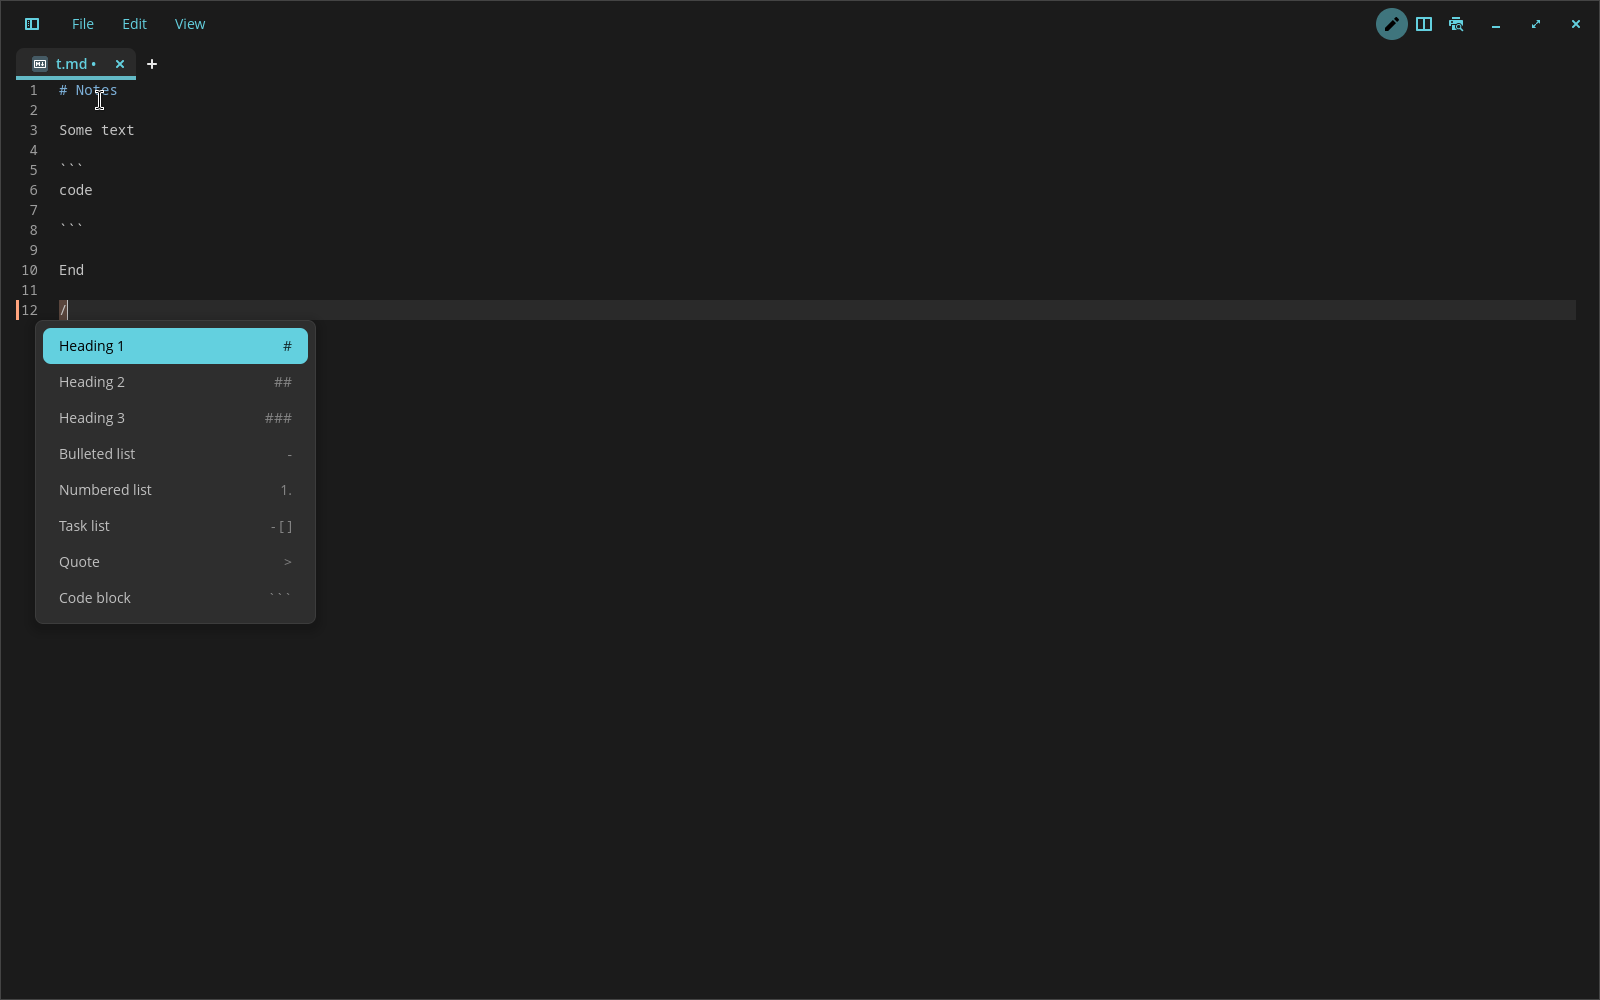
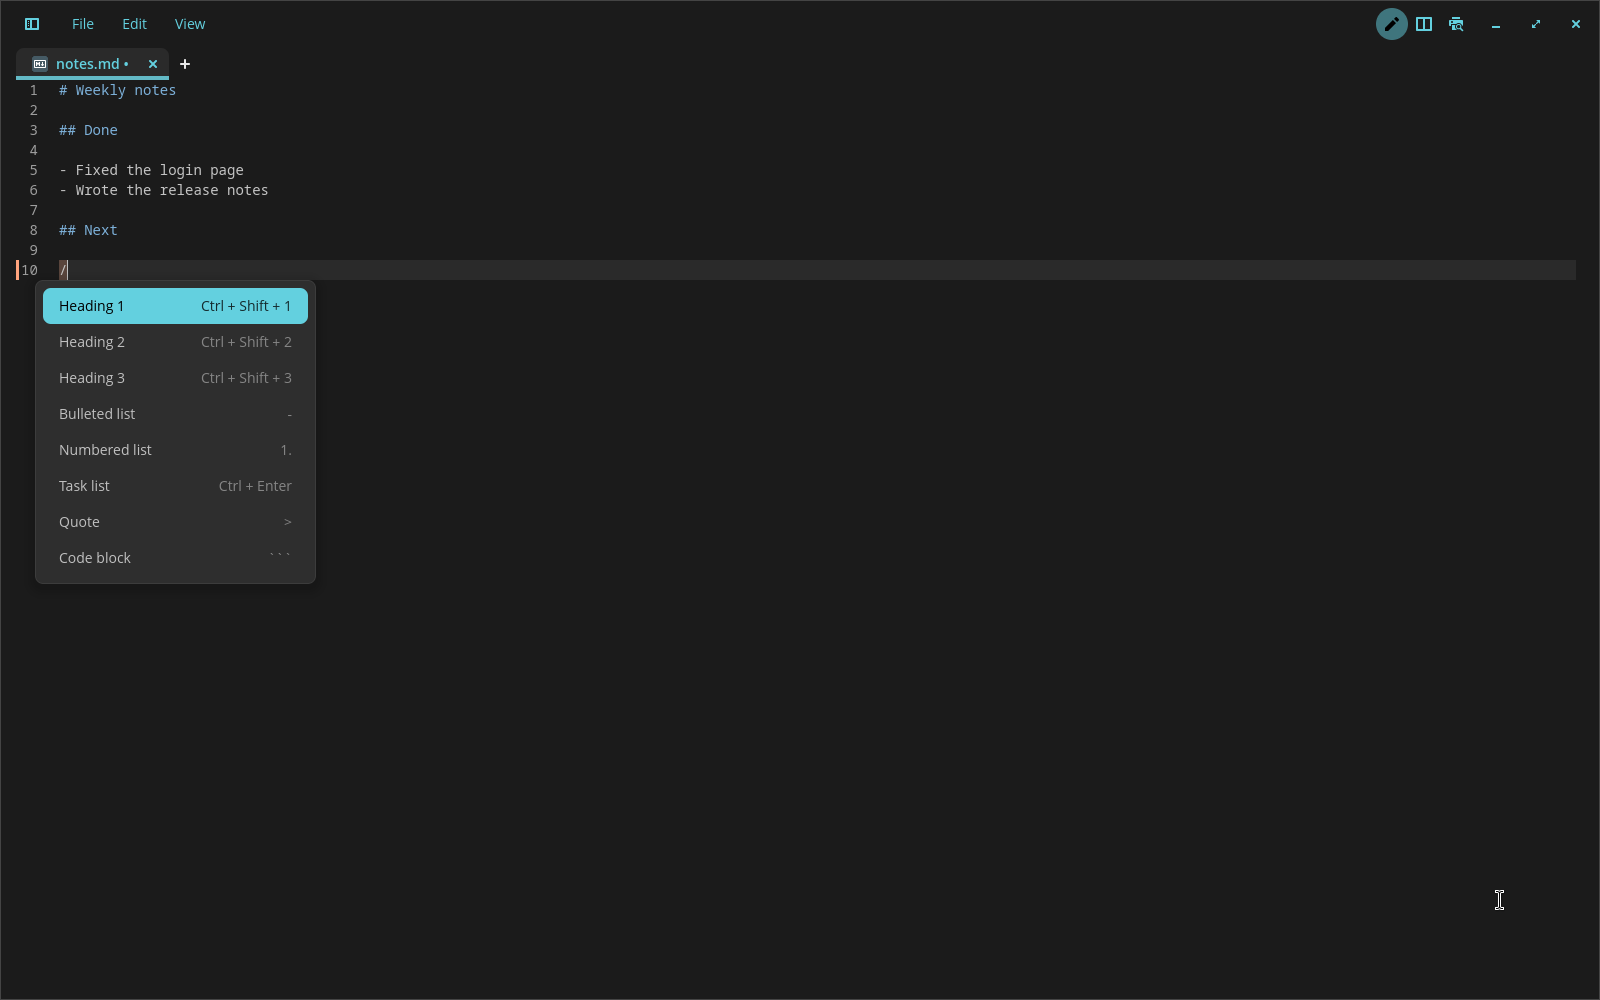
Docs: new mockups for the "/" menu, Markdown shortcuts and workspace pins
The Text Editor, taskbar and Workspace Keeper pages show the new
mockups as the main images. The real "/" menu screenshot is retaken on
the current build, with invented notes and the new shortcut hints, and
moves to the Screenshots section of docs/text-editor.md as an extra. The
Text Editor intros name the Markdown writing helpers and large files,
and the taskbar README notes that an empty App List takes no panel space.

diff --git a/docs/text-editor.md b/docs/text-editor.md
@@ -4,11 +4,12 @@ A patch series for COSMIC Text Editor (`pop-os/cosmic-edit`). Markdown files ope
 each Markdown tab can switch between three views. Files open as tabs in the running editor, and
 the editor brings back every tab of the last session, unsaved changes included. Changed lines
 are marked in the gutter, changed words are tinted, and an outside change to a file with unsaved
-changes asks before anything is lost. On top: Mermaid diagrams, an outline of Markdown headings, JSON tools,
-visible whitespace and line endings, column selection, code folding, closing many tabs at once and
-two views side by side. The renderer is libcosmic's native Markdown widget
-(pulldown-cmark), not a web engine, so the editor starts as fast as before. User overview:
-[text-editor/README.md](../text-editor/README.md).
+changes asks before anything is lost. Markdown is quick to write: a "/" menu of blocks, shortcuts
+for text styles, links and headings, and list and table editing. On top: Mermaid diagrams, an
+outline of Markdown headings, JSON tools, visible whitespace and line endings, column selection,
+code folding, closing many tabs at once, two views side by side, and large files that open fast.
+The renderer is libcosmic's native Markdown widget (pulldown-cmark), not a web engine, so the
+editor starts as fast as before. User overview: [text-editor/README.md](../text-editor/README.md).
 
 ![COSMIC Text Editor in Split view](media/text-editor.svg)
 
@@ -132,6 +133,8 @@ pay nothing.
 
 ## "/" command menu
 
+![The "/" menu in a Markdown tab, with the shortcut or Markdown syntax as hints](media/text-editor-slash.svg)
+
 In a Markdown tab, type `/` at the start of a line (only spaces or tabs before it) and a menu of
 Markdown blocks opens below the `/`. Above it when there is no room below. Typing after the `/`
 filters the list: an item stays when a word of its label, its English label or one of its keywords
@@ -178,11 +181,11 @@ keys, the hover colour for the row under the mouse. The popup is a window overla
 Settings, section "Markdown", **"/" command menu** (on by default, config key
 `markdown_slash_menu`). Off, `/` types a plain slash.
 
-![The "/" menu in a Markdown tab, with the Markdown syntax as hints](media/screenshots/text-editor-slash-menu.png)
-
 ## Markdown shortcuts
 
 In a Markdown tab these keys write the Markdown for you. Each use is one undo step.
+
+![A Markdown note with a nested list, tasks, a link and an aligned table, next to the Markdown shortcuts](media/text-editor-markdown.svg)
 
 | Action | Shortcut | Behaviour |
 |---|---|---|
@@ -656,6 +659,8 @@ current build, taken in a clean test session with demo content.
 ![Two views side by side, each with its own tabs](media/screenshots/text-editor-views.png)
 
 ![A tab dragged into the other view: the target view is outlined](media/screenshots/text-editor-views-drag.png)
+
+![The "/" menu in a Markdown tab, with shortcuts and Markdown syntax as hints](media/screenshots/text-editor-slash-menu.png)
 
 ## Limits
 

diff --git a/text-editor/README.md b/text-editor/README.md
@@ -4,10 +4,11 @@ Blog post: [a Notepad++-style Text Editor for COSMIC](https://jwillmer.de/blog/p
 
 COSMIC Text Editor with the comforts of Notepad++: Markdown files open rendered, every file opens
 as a tab in one window, the tabs of your last session come back with their unsaved changes, and
-changed lines are marked until you save. It also has Mermaid diagrams and a heading outline for
-Markdown, JSON formatting, visible whitespace, column selection, code folding, closing all tabs at once and two
-views side by side. Everything else is the normal COSMIC Text Editor, built
-from System76's source for the version you have installed.
+changed lines are marked until you save. Markdown is quick to write, with a "/" menu of blocks,
+shortcuts for bold, links and headings, and list and table editing. It also has Mermaid diagrams
+and a heading outline for Markdown, JSON formatting, visible whitespace, column selection, code
+folding, closing all tabs at once and two views side by side. Everything else is the normal COSMIC
+Text Editor, built from System76's source for the version you have installed.
 
 ![COSMIC Text Editor in Split view: Markdown source left, rendered preview right](../docs/media/text-editor.svg)
 
@@ -42,6 +43,8 @@ bold, italic, strikethrough and inline code. Type to filter, pick
 with Enter or a click, and the `/` turns into the Markdown for it. The menu stays closed inside
 code blocks, front matter and HTML. Settings, **"/" command menu** turns it off.
 
+![The "/" menu in a Markdown file, with the shortcut or Markdown syntax as hints](../docs/media/text-editor-slash.svg)
+
 Ctrl+B and Ctrl+I make the selection, or the word at the cursor, **bold** (`**…**`) or *italic*
 (`*…*`); pressed again they take the markers off. Ctrl+Shift+X strikes through, `` Ctrl+` `` makes
 inline code, Ctrl+K makes a link (pasting a URL over selected text does too), and Ctrl+Shift+1 to 6
@@ -49,6 +52,8 @@ set a heading. In lists, Enter starts the next item, Tab and Shift+Tab nest and 
 Backspace right after a marker steps back, and Ctrl+Enter ticks a task. In tables, Tab moves to
 the next cell, Enter adds a row, and both keep the columns aligned; Edit > Format table aligns a
 table by hand. All of it is also in the Edit menu, for Markdown files only.
+
+![A Markdown note with a nested list, tasks, a link and an aligned table, next to the Markdown shortcuts](../docs/media/text-editor-markdown.svg)
 
 Typing in Preview switches the tab to Source and puts the text at the end of the block you were
 looking at, so no key is lost.

diff --git a/taskbar/README.md b/taskbar/README.md
@@ -32,11 +32,13 @@ app icon, the window title and a useful second line.
 
   ![Right-click menu and the Move to workspace page](../docs/media/taskbar-menu.svg)
 
+  ![Always open on “Work” in the right-click menu, and the pin on a pinned app](../docs/media/taskbar-pin.svg)
+
 - **No clutter when there are many windows**: items shrink first, then the rest go into a popup
   behind an arrow, with the same previews.
 - **No doubled icons**: the App List and the dock hide an app while its window is already in the
   taskbar, and show it again when the window closes. Your pinned apps and their order stay as they
-  are.
+  are. When every app is in the taskbar, the App List takes no panel space.
 
 ## Upstream requests
 

diff --git a/ws-keeper/README.md b/ws-keeper/README.md
@@ -65,6 +65,8 @@ workspace. Right-click the app in the taskbar to pin it, or add a line to
 org.example.Chat = Work
 ```
 
+![The taskbar's right-click menu with Always open on “Work”, and a pin on a pinned app](../docs/media/taskbar-pin.svg)
+
 The left side is the app id, the right side the workspace name. To find an app's id, run
 `ws-keeper pins`: it shows your pins, whether each workspace exists, and the app ids of the
 windows open now.

diff --git a/docs/taskbar.md b/docs/taskbar.md
@@ -201,6 +201,8 @@ Mail, Web, Code, Music.
 
 ## Workspace pins
 
+![Always open on “Work” in the window menu, and the pin on a pinned app's icon](media/taskbar-pin.svg)
+
 The pin entry in the window menu edits Workspace Keeper's pins file,
 `$XDG_CONFIG_HOME/ws-keeper/pins` (default `~/.config/ws-keeper/pins`): one rule per line,
 `app_id = Workspace Name`, split at the first `=`, `#` comments, the last rule for an app wins.
